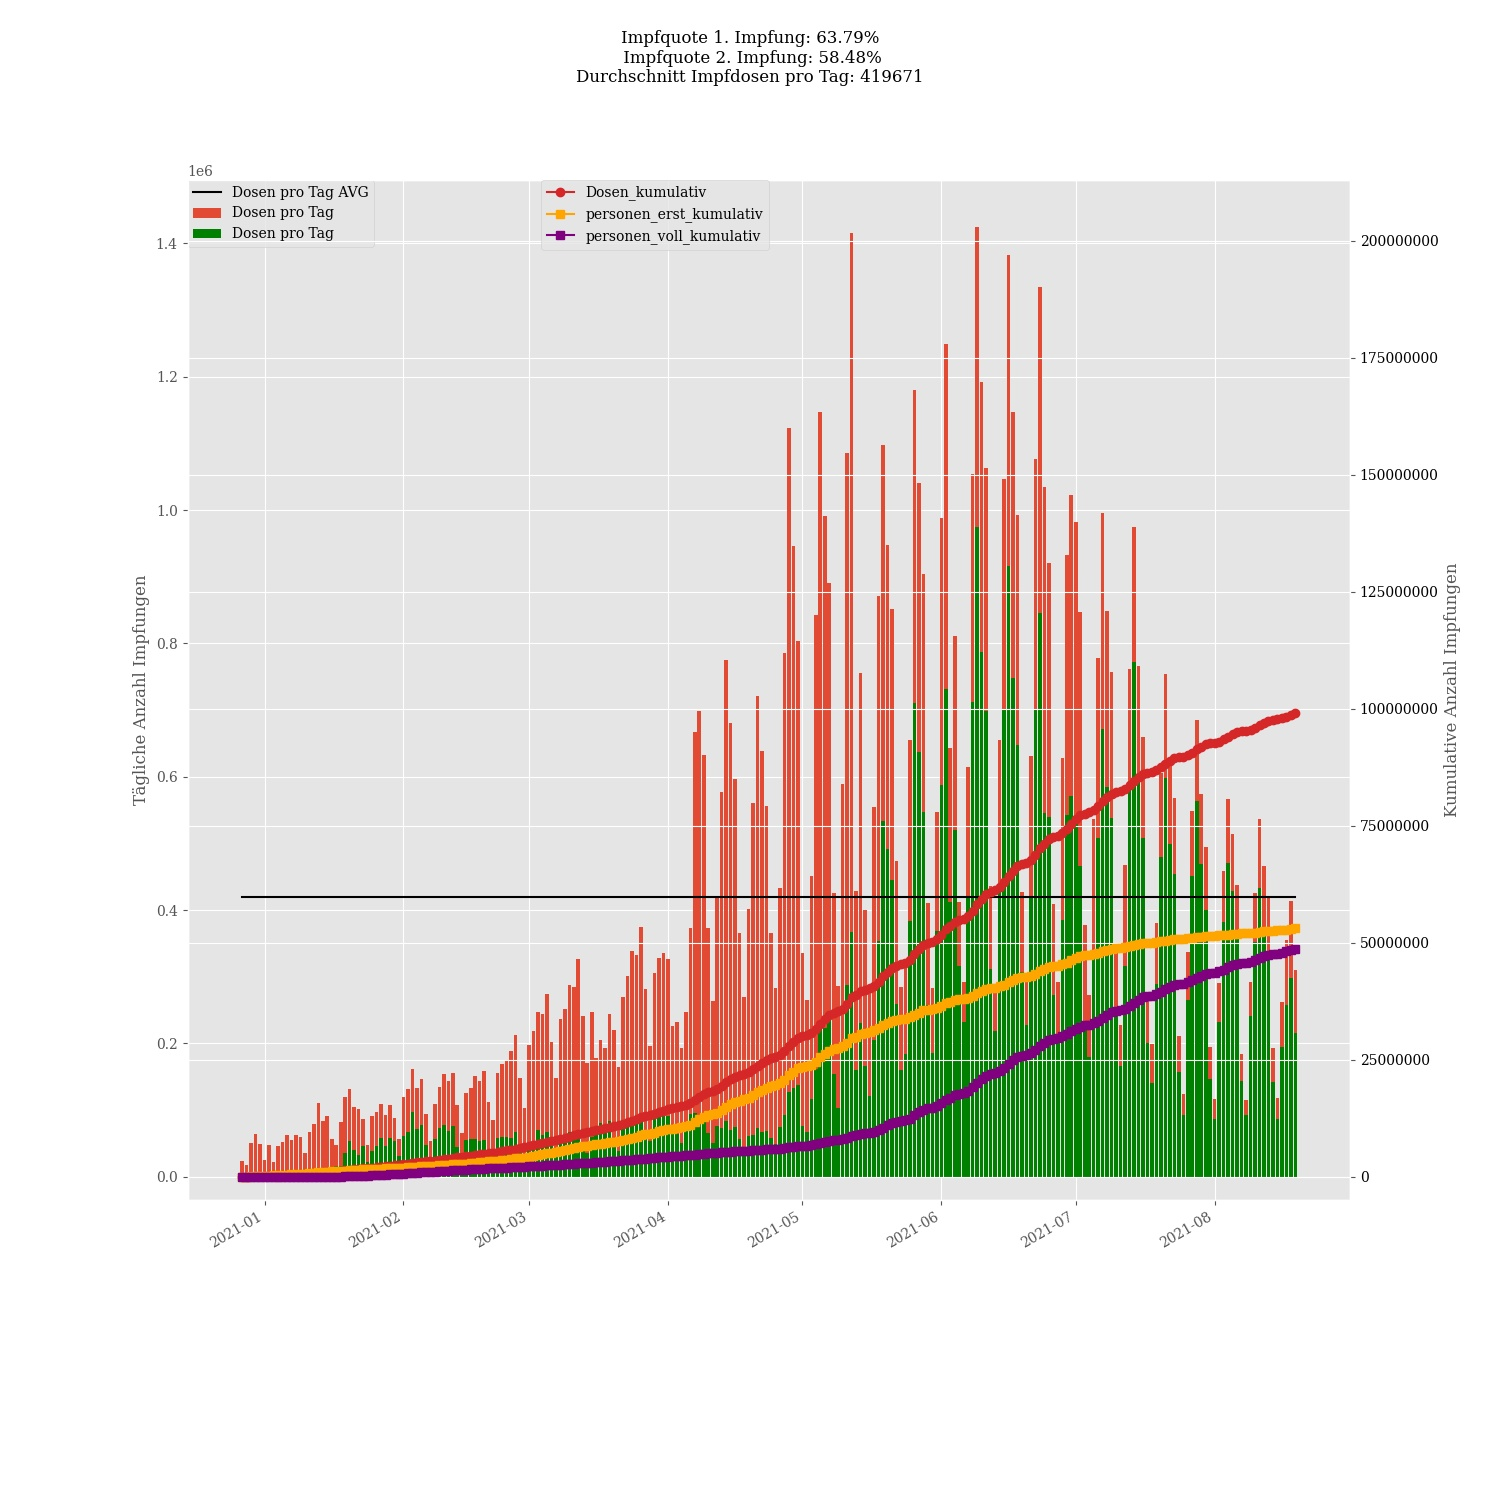
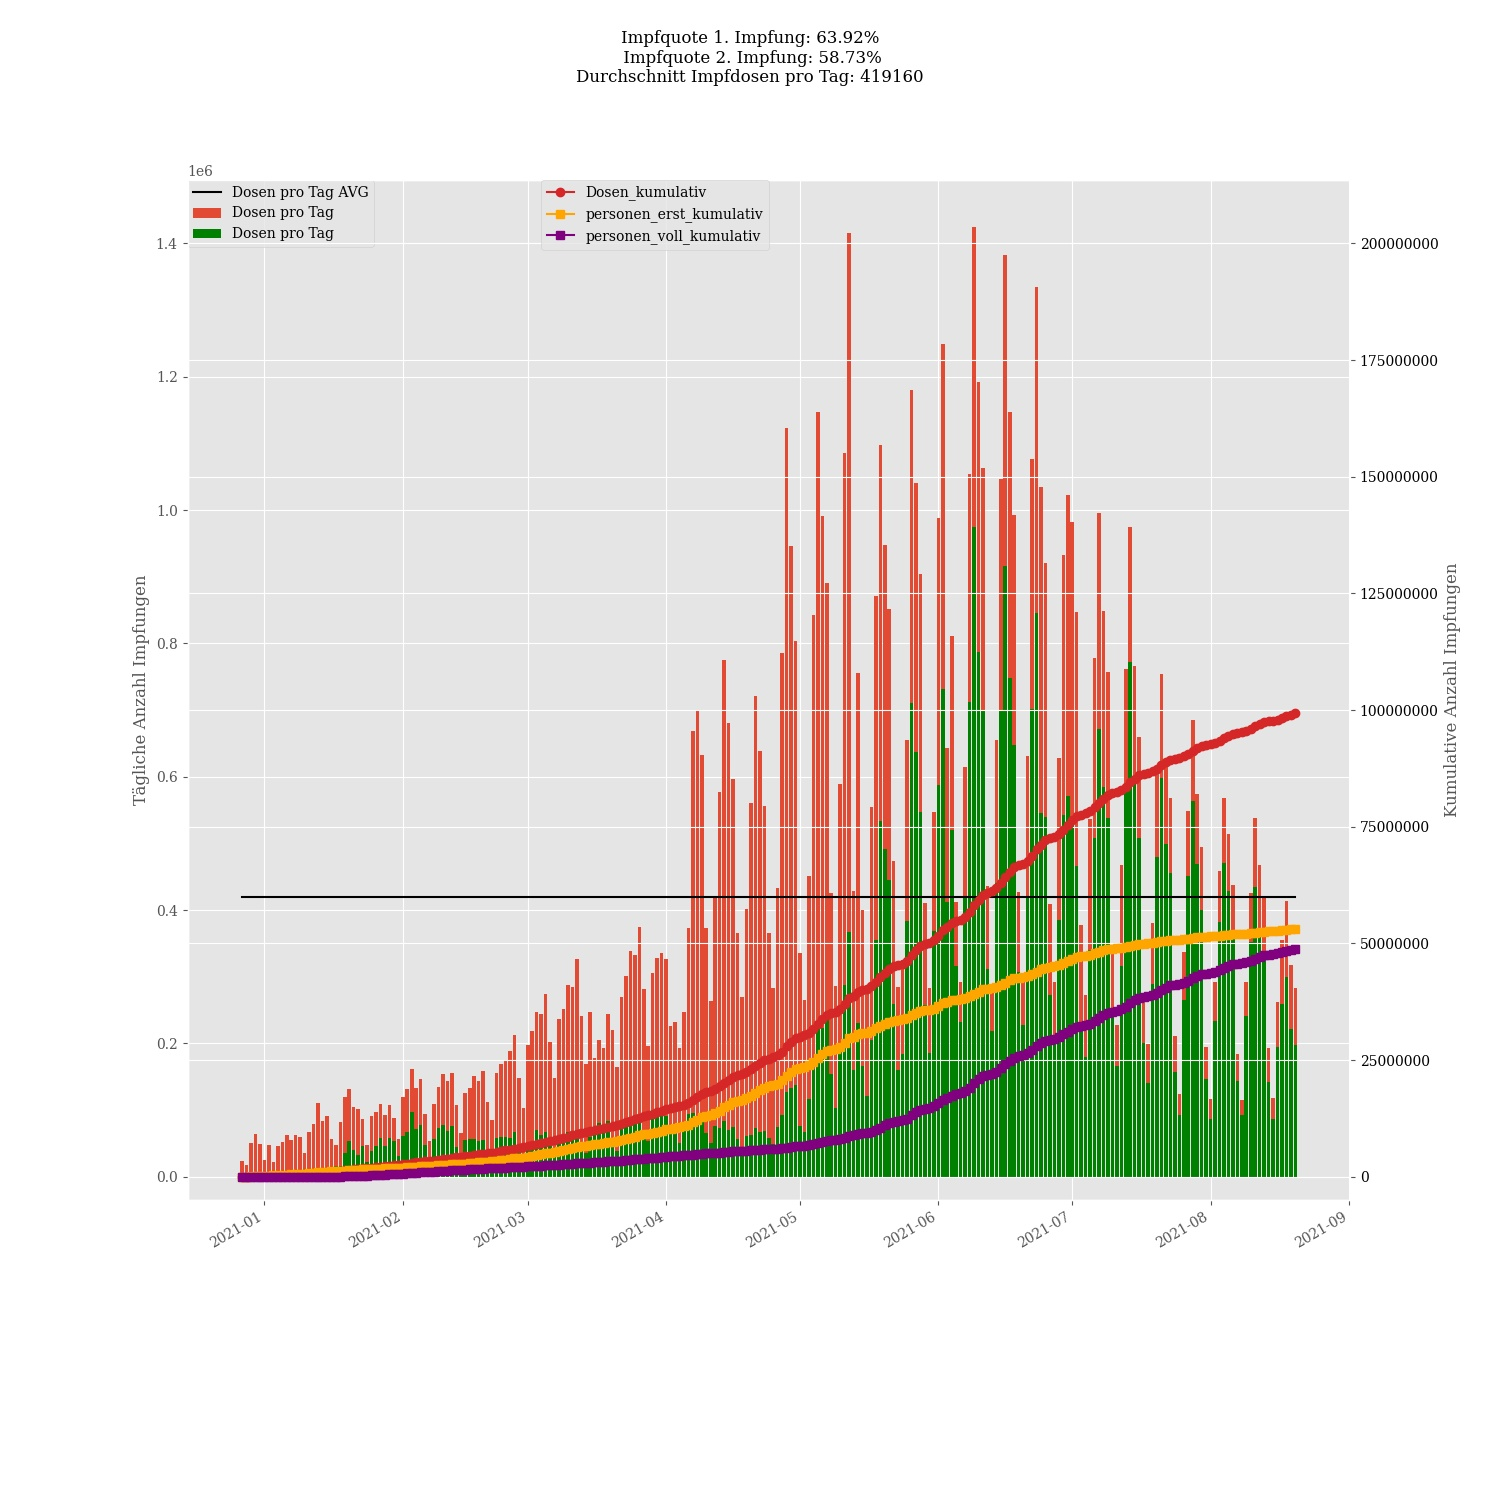
Crontab commit

diff --git a/Readme.md b/Readme.md
@@ -1,19 +1,19 @@
-# Corona vaccine Germany - Stand 2021-08-19
+# Corona vaccine Germany - Stand 2021-08-20
 ## Dashboard by [Simon Hamacher](https://www.shamacher.eu)
 ## Impfstoffe Übersicht
 **Impfstoffhersteller** | **verimpfte Dosen**
 -------- | :--------:
-Biontech | 74617472
-Moderna | 9142427
-Astrazeneca | 12606373
+Biontech | 74873277
+Moderna | 9163215
+Astrazeneca | 12611507
 
 
 ## Quoten
-**Total Verimpfte Dosen:** | |96366272&nbsp;
+**Total Verimpfte Dosen:** | |96647999&nbsp;
 -------- | :--------:| :--------:
-**Erst-Impfquote** | **63.79** %| **53066487** Personen
-**Voll-Impfquote** | **58.48** %| **48652173** Personen
-**Imfungen Durchschnitt** | |**419671.47** pro Tag 
+**Erst-Impfquote** | **63.92** %| **53173018** Personen
+**Voll-Impfquote** | **58.73** %| **48860871** Personen
+**Imfungen Durchschnitt** | |**419160.10** pro Tag 
 ## Bundesländer
 **Bundesland** | **Prozent von gelieferten Imfdosen verimpft**
 -------- | :--------:
